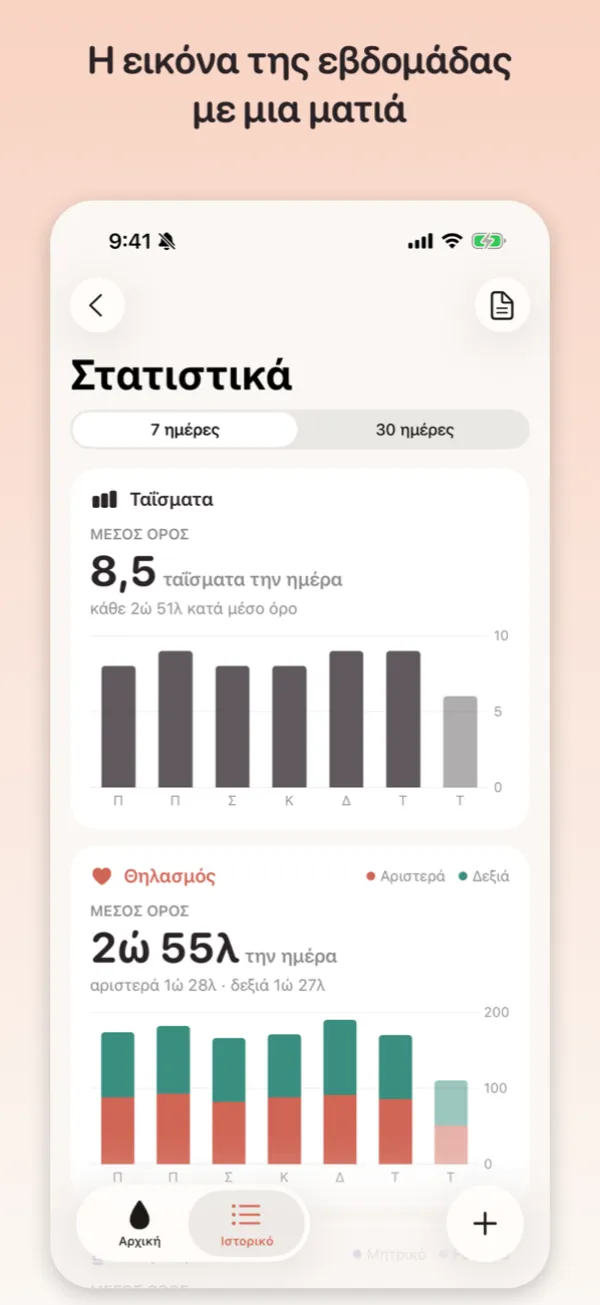
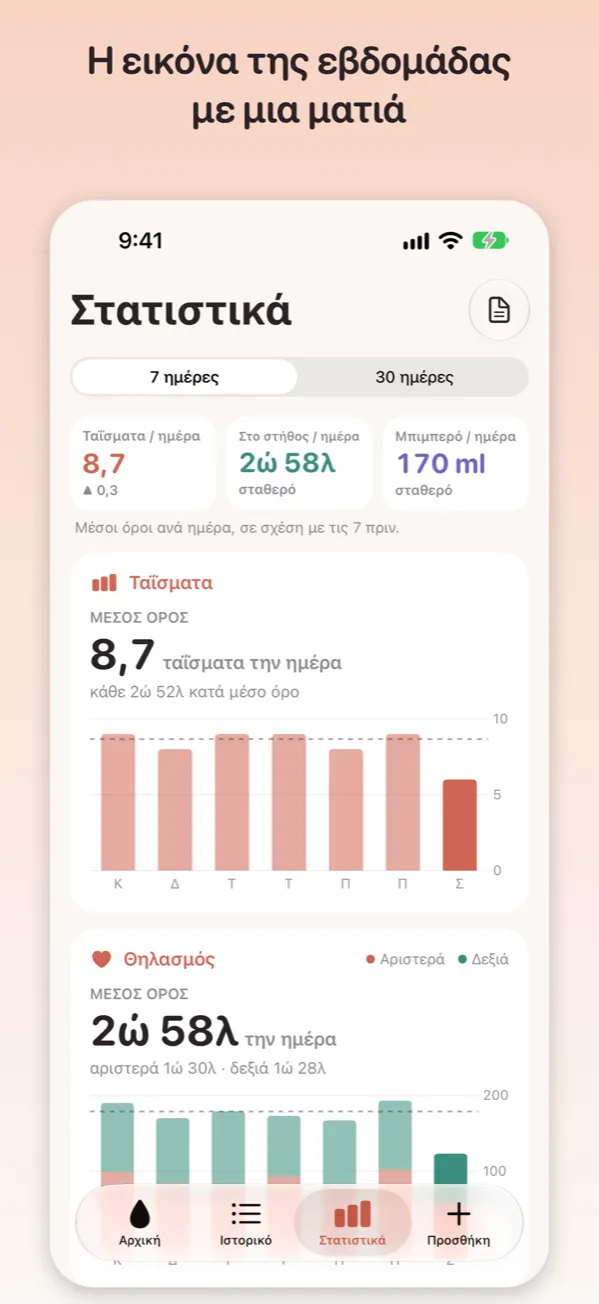
Show 1.1: new screenshots, units, baby profile, Statistics tab

diff --git a/index.html b/index.html
@@ -49,10 +49,10 @@
     </ul>
   </div>
   <div class="hero-phones" aria-hidden="true">
-    <img class="phone back" lang="en" src="img/en-1-feeding-screen.webp" alt="" width="560" height="1236">
-    <img class="phone back" lang="el" src="img/el-1-feeding-screen.webp" alt="" width="560" height="1236" loading="lazy">
-    <img class="phone front" lang="en" src="img/en-3-home-screen.webp" alt="" width="560" height="1236">
-    <img class="phone front" lang="el" src="img/el-3-home-screen.webp" alt="" width="560" height="1236" loading="lazy">
+    <img class="phone back" lang="en" src="img/en-1-feeding-screen.webp" alt="" width="560" height="1217">
+    <img class="phone back" lang="el" src="img/el-1-feeding-screen.webp" alt="" width="560" height="1217" loading="lazy">
+    <img class="phone front" lang="en" src="img/en-3-home-screen.webp" alt="" width="560" height="1217">
+    <img class="phone front" lang="el" src="img/el-3-home-screen.webp" alt="" width="560" height="1217" loading="lazy">
   </div>
 </section>
 
@@ -78,17 +78,17 @@
     <article class="card">
       <div class="ico peach"><svg viewBox="0 0 24 24"><path d="M12 3.5c3 3.6 5.5 6.6 5.5 10a5.5 5.5 0 0 1-11 0c0-3.4 2.5-6.4 5.5-10z"/></svg></div>
       <h3><span lang="en">Everything in one place</span><span lang="el">Όλα σε ένα σημείο</span></h3>
-      <p><span lang="en">Breastfeeding, bottles, pumping, diapers, notes and growth at each visit. More than one baby is fine.</span><span lang="el">Θηλασμός, μπιμπερό, άντληση, πάνες, σημειώσεις και ανάπτυξη σε κάθε επίσκεψη. Και για περισσότερα από ένα μωρά.</span></p>
+      <p><span lang="en">Breastfeeding, bottles, pumping, diapers and notes, in ml or oz. Each baby has a profile with their growth, and more than one baby is fine.</span><span lang="el">Θηλασμός, μπιμπερό, άντληση, πάνες και σημειώσεις, σε ml ή oz. Κάθε μωρό έχει το δικό του προφίλ με την ανάπτυξή του, και για περισσότερα από ένα μωρά.</span></p>
     </article>
     <article class="card">
       <div class="ico teal"><svg viewBox="0 0 24 24"><path d="M7 3h7l4 4v14H7zM14 3v4h4M10 12h5M10 16h5"/></svg></div>
       <h3><span lang="en">Ready for the paediatrician</span><span lang="el">Έτοιμο για τον παιδίατρο</span></h3>
-      <p><span lang="en">A clear PDF report of the last 7 or 14 days, and statistics for the week or the month.</span><span lang="el">Καθαρή αναφορά PDF για τις τελευταίες 7 ή 14 μέρες, και στατιστικά για την εβδομάδα ή τον μήνα.</span></p>
+      <p><span lang="en">A clear PDF report of the last 7 or 14 days, and a Statistics tab with daily averages and how they change week to week.</span><span lang="el">Καθαρή αναφορά PDF για τις τελευταίες 7 ή 14 μέρες, και καρτέλα Στατιστικών με μέσους όρους ανά ημέρα και πώς αλλάζουν από εβδομάδα σε εβδομάδα.</span></p>
     </article>
     <article class="card">
       <div class="ico lilac"><svg viewBox="0 0 24 24"><rect x="6.5" y="6" width="11" height="12" rx="3"/><path d="M9 6l.7-3h4.6l.7 3M9 18l.7 3h4.6l.7-3"/></svg></div>
       <h3><span lang="en">On your wrist</span><span lang="el">Στον καρπό σου</span></h3>
-      <p><span lang="en">Start, switch and stop a feed or log a bottle from Apple Watch, even with the iPhone in the other room.</span><span lang="el">Ξεκίνα, άλλαξε και σταμάτα τάισμα ή γράψε μπιμπερό από το Apple Watch, ακόμα κι αν το iPhone είναι σε άλλο δωμάτιο.</span></p>
+      <p><span lang="en">Start, pause, switch and stop a feed or log a bottle from Apple Watch, even with the iPhone in the other room.</span><span lang="el">Ξεκίνα, κάνε παύση, άλλαξε και σταμάτα τάισμα ή γράψε μπιμπερό από το Apple Watch, ακόμα κι αν το iPhone είναι σε άλλο δωμάτιο.</span></p>
     </article>
   </div>
 </section>
@@ -97,20 +97,20 @@
   <h2><span lang="en">A quick look inside</span><span lang="el">Μια ματιά μέσα</span></h2>
   <p class="sub"><span lang="en">Light for the day, a warm dark theme for the night.</span><span lang="el">Φωτεινό για τη μέρα, ζεστό σκούρο θέμα για τη νύχτα.</span></p>
   <div class="gallery" tabindex="0" aria-label="Screenshots">
-    <img lang="en" src="img/en-3-home.webp" alt="Home screen: when the next feed is due" width="600" height="1305" loading="lazy">
-    <img lang="el" src="img/el-3-home.webp" alt="Αρχική οθόνη: πότε έρχεται το επόμενο τάισμα" width="600" height="1305" loading="lazy">
-    <img lang="en" src="img/en-1-feeding.webp" alt="A feed running, in the dark theme" width="600" height="1305" loading="lazy">
-    <img lang="el" src="img/el-1-feeding.webp" alt="Τάισμα σε εξέλιξη, στο σκούρο θέμα" width="600" height="1305" loading="lazy">
-    <img lang="en" src="img/en-7-history.webp" alt="History of feeds, bottles and diapers" width="600" height="1305" loading="lazy">
-    <img lang="el" src="img/el-7-history.webp" alt="Ιστορικό με ταΐσματα, μπιμπερό και πάνες" width="600" height="1305" loading="lazy">
-    <img lang="en" src="img/en-4-report.webp" alt="PDF report for the paediatrician" width="600" height="1305" loading="lazy">
-    <img lang="el" src="img/el-4-report.webp" alt="Αναφορά PDF για τον παιδίατρο" width="600" height="1305" loading="lazy">
-    <img lang="en" src="img/en-2-lock.webp" alt="The feed on the lock screen" width="600" height="1305" loading="lazy">
-    <img lang="el" src="img/el-2-lock.webp" alt="Το τάισμα στην οθόνη κλειδώματος" width="600" height="1305" loading="lazy">
-    <img lang="en" src="img/en-5-stats.webp" alt="Weekly statistics" width="600" height="1305" loading="lazy">
-    <img lang="el" src="img/el-5-stats.webp" alt="Στατιστικά εβδομάδας" width="600" height="1305" loading="lazy">
-    <img lang="en" src="img/en-6-welcome.webp" alt="Welcome screen" width="600" height="1305" loading="lazy">
-    <img lang="el" src="img/el-6-welcome.webp" alt="Οθόνη καλωσορίσματος" width="600" height="1305" loading="lazy">
+    <img lang="en" src="img/en-3-home.webp" alt="Home screen: when the next feed is due" width="600" height="1304" loading="lazy">
+    <img lang="el" src="img/el-3-home.webp" alt="Αρχική οθόνη: πότε έρχεται το επόμενο τάισμα" width="600" height="1304" loading="lazy">
+    <img lang="en" src="img/en-1-feeding.webp" alt="A feed running, in the dark theme" width="600" height="1304" loading="lazy">
+    <img lang="el" src="img/el-1-feeding.webp" alt="Τάισμα σε εξέλιξη, στο σκούρο θέμα" width="600" height="1304" loading="lazy">
+    <img lang="en" src="img/en-7-history.webp" alt="History of feeds, bottles and diapers" width="600" height="1304" loading="lazy">
+    <img lang="el" src="img/el-7-history.webp" alt="Ιστορικό με ταΐσματα, μπιμπερό και πάνες" width="600" height="1304" loading="lazy">
+    <img lang="en" src="img/en-4-report.webp" alt="PDF report for the paediatrician" width="600" height="1304" loading="lazy">
+    <img lang="el" src="img/el-4-report.webp" alt="Αναφορά PDF για τον παιδίατρο" width="600" height="1304" loading="lazy">
+    <img lang="en" src="img/en-2-lock.webp" alt="The feed on the lock screen" width="600" height="1304" loading="lazy">
+    <img lang="el" src="img/el-2-lock.webp" alt="Το τάισμα στην οθόνη κλειδώματος" width="600" height="1304" loading="lazy">
+    <img lang="en" src="img/en-5-stats.webp" alt="Weekly statistics" width="600" height="1304" loading="lazy">
+    <img lang="el" src="img/el-5-stats.webp" alt="Στατιστικά εβδομάδας" width="600" height="1304" loading="lazy">
+    <img lang="en" src="img/en-6-welcome.webp" alt="Welcome screen" width="600" height="1304" loading="lazy">
+    <img lang="el" src="img/el-6-welcome.webp" alt="Οθόνη καλωσορίσματος" width="600" height="1304" loading="lazy">
   </div>
 </section>
 
